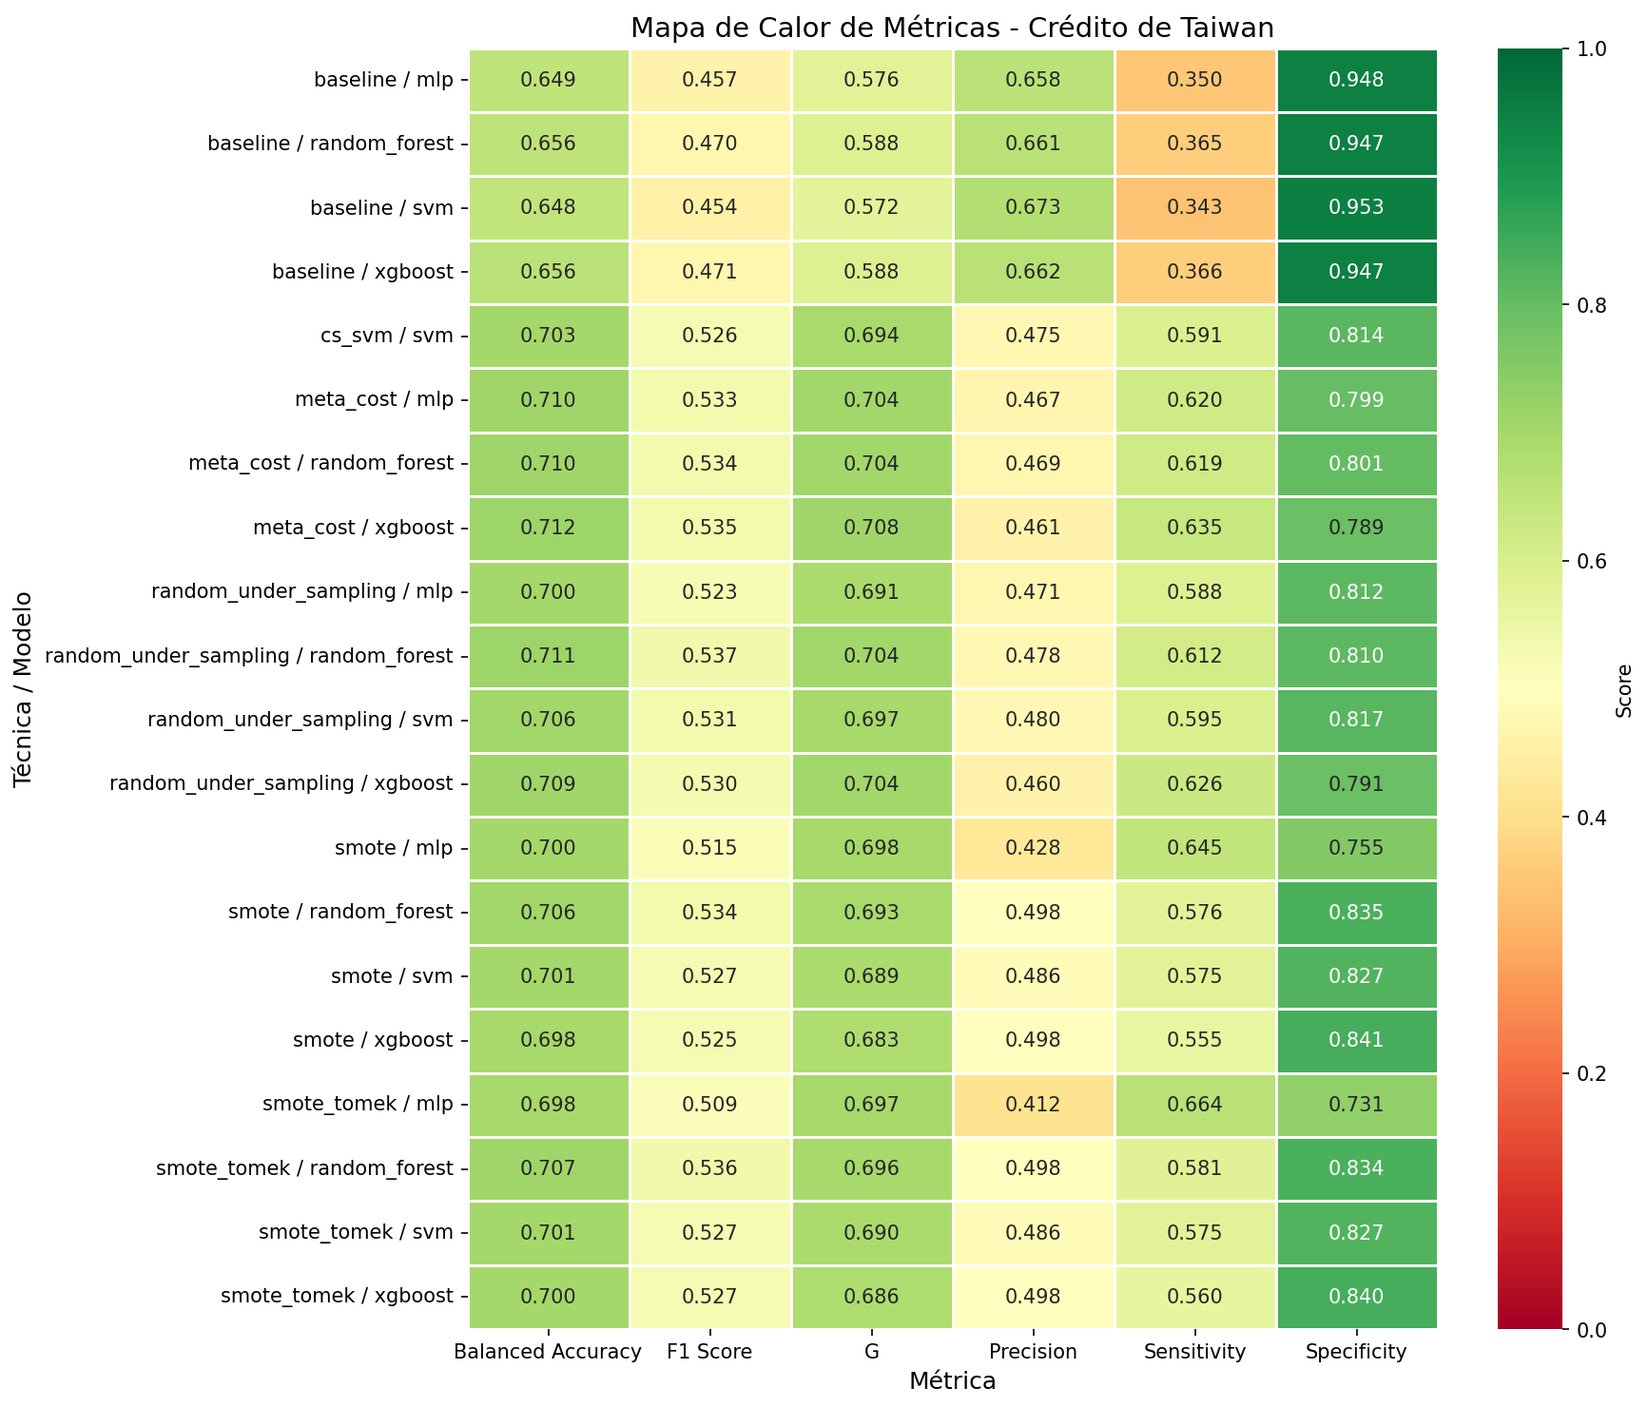
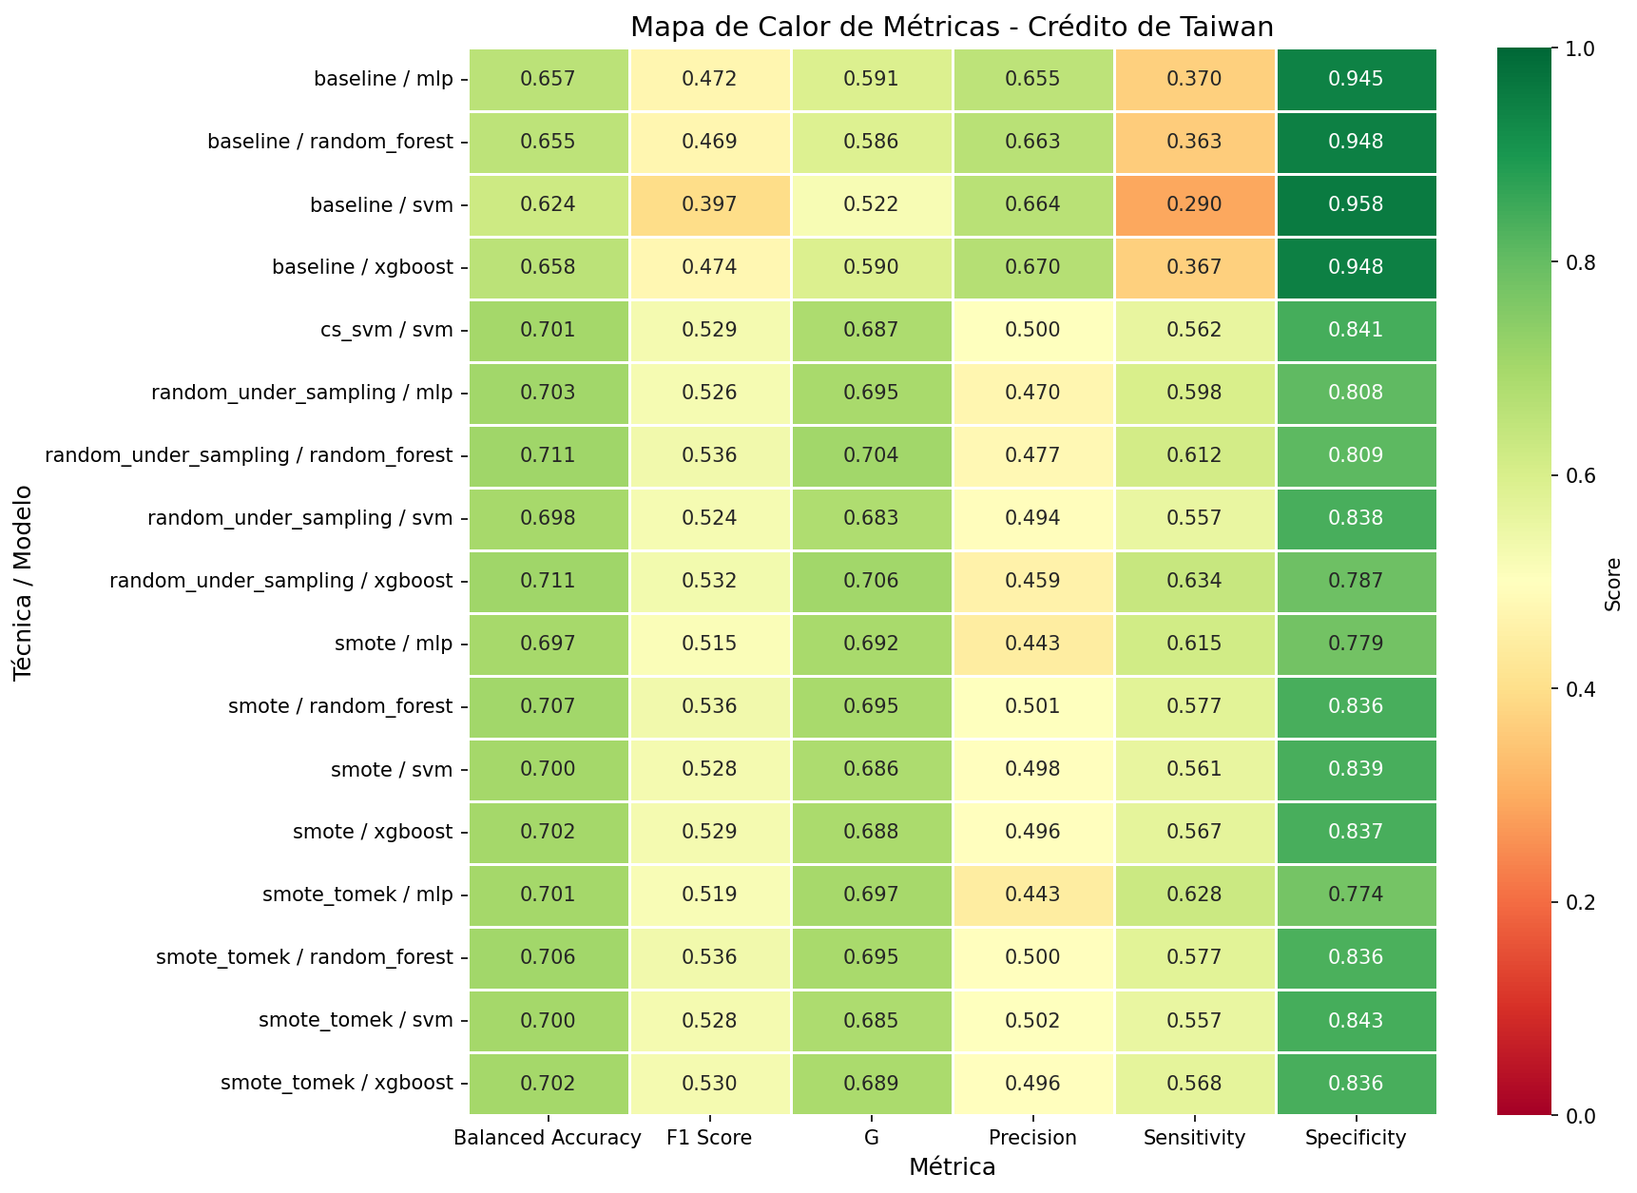
atualizar resultados

diff --git a/experimentos/reports/en_US/taiwan_credit/summary_table.tex b/experimentos/reports/en_US/taiwan_credit/summary_table.tex
@@ -5,26 +5,23 @@
 \toprule
 model_type & technique & balanced_accuracy_mean & balanced_accuracy_std & g_mean_mean & g_mean_std & f1_score_mean & f1_score_std & precision_mean & precision_std & sensitivity_mean & sensitivity_std & specificity_mean & specificity_std \\
 \midrule
-xgboost & meta_cost & 0.7123 & NaN & 0.7081 & NaN & 0.5345 & NaN & 0.4613 & NaN & 0.6354 & NaN & 0.7893 & NaN \\
-random_forest & random_under_sampling & 0.7111 & NaN & 0.7041 & NaN & 0.5368 & NaN & 0.4782 & NaN & 0.6118 & NaN & 0.8104 & NaN \\
-random_forest & meta_cost & 0.7099 & NaN & 0.7041 & NaN & 0.5337 & NaN & 0.4692 & NaN & 0.6188 & NaN & 0.8011 & NaN \\
-mlp & meta_cost & 0.7096 & NaN & 0.7039 & NaN & 0.5328 & NaN & 0.4669 & NaN & 0.6203 & NaN & 0.7988 & NaN \\
-xgboost & random_under_sampling & 0.7087 & NaN & 0.7039 & NaN & 0.5304 & NaN & 0.4600 & NaN & 0.6263 & NaN & 0.7911 & NaN \\
-random_forest & smote_tomek & 0.7072 & NaN & 0.6958 & NaN & 0.5362 & NaN & 0.4981 & NaN & 0.5806 & NaN & 0.8338 & NaN \\
-svm & random_under_sampling & 0.7060 & NaN & 0.6971 & NaN & 0.5314 & NaN & 0.4803 & NaN & 0.5947 & NaN & 0.8172 & NaN \\
-random_forest & smote & 0.7055 & NaN & 0.6935 & NaN & 0.5343 & NaN & 0.4985 & NaN & 0.5756 & NaN & 0.8355 & NaN \\
-svm & cs_svm & 0.7025 & NaN & 0.6936 & NaN & 0.5264 & NaN & 0.4748 & NaN & 0.5907 & NaN & 0.8144 & NaN \\
-svm & smote_tomek & 0.7012 & NaN & 0.6897 & NaN & 0.5268 & NaN & 0.4860 & NaN & 0.5751 & NaN & 0.8272 & NaN \\
-svm & smote & 0.7010 & NaN & 0.6895 & NaN & 0.5266 & NaN & 0.4860 & NaN & 0.5746 & NaN & 0.8274 & NaN \\
-mlp & smote & 0.7004 & NaN & 0.6982 & NaN & 0.5149 & NaN & 0.4283 & NaN & 0.6454 & NaN & 0.7553 & NaN \\
-mlp & random_under_sampling & 0.6999 & NaN & 0.6909 & NaN & 0.5227 & NaN & 0.4706 & NaN & 0.5876 & NaN & 0.8122 & NaN \\
-xgboost & smote_tomek & 0.6998 & NaN & 0.6856 & NaN & 0.5272 & NaN & 0.4984 & NaN & 0.5595 & NaN & 0.8401 & NaN \\
-xgboost & smote & 0.6979 & NaN & 0.6831 & NaN & 0.5247 & NaN & 0.4975 & NaN & 0.5550 & NaN & 0.8408 & NaN \\
-mlp & smote_tomek & 0.6977 & NaN & 0.6969 & NaN & 0.5089 & NaN & 0.4125 & NaN & 0.6640 & NaN & 0.7313 & NaN \\
-xgboost & baseline & 0.6563 & NaN & 0.5884 & NaN & 0.4710 & NaN & 0.6618 & NaN & 0.3656 & NaN & 0.9469 & NaN \\
-random_forest & baseline & 0.6557 & NaN & 0.5876 & NaN & 0.4699 & NaN & 0.6606 & NaN & 0.3646 & NaN & 0.9468 & NaN \\
-mlp & baseline & 0.6492 & NaN & 0.5762 & NaN & 0.4570 & NaN & 0.6582 & NaN & 0.3501 & NaN & 0.9484 & NaN \\
-svm & baseline & 0.6478 & NaN & 0.5717 & NaN & 0.4544 & NaN & 0.6729 & NaN & 0.3430 & NaN & 0.9526 & NaN \\
+xgboost & random_under_sampling & 0.7108 & 0.0058 & 0.7065 & 0.0069 & 0.5324 & 0.0076 & 0.4592 & 0.0122 & 0.6342 & 0.0181 & 0.7874 & 0.0139 \\
+random_forest & random_under_sampling & 0.7106 & 0.0058 & 0.7036 & 0.0070 & 0.5359 & 0.0079 & 0.4769 & 0.0135 & 0.6123 & 0.0175 & 0.8088 & 0.0136 \\
+random_forest & smote & 0.7067 & 0.0051 & 0.6947 & 0.0057 & 0.5360 & 0.0075 & 0.5006 & 0.0092 & 0.5770 & 0.0091 & 0.8364 & 0.0058 \\
+random_forest & smote_tomek & 0.7065 & 0.0052 & 0.6945 & 0.0058 & 0.5356 & 0.0077 & 0.4996 & 0.0096 & 0.5773 & 0.0092 & 0.8357 & 0.0060 \\
+mlp & random_under_sampling & 0.7033 & 0.0051 & 0.6952 & 0.0071 & 0.5263 & 0.0053 & 0.4702 & 0.0068 & 0.5981 & 0.0198 & 0.8084 & 0.0109 \\
+xgboost & smote_tomek & 0.7020 & 0.0051 & 0.6891 & 0.0058 & 0.5296 & 0.0077 & 0.4962 & 0.0111 & 0.5680 & 0.0103 & 0.8360 & 0.0079 \\
+xgboost & smote & 0.7016 & 0.0051 & 0.6885 & 0.0059 & 0.5291 & 0.0074 & 0.4963 & 0.0092 & 0.5667 & 0.0101 & 0.8365 & 0.0062 \\
+svm & cs_svm & 0.7011 & 0.0046 & 0.6870 & 0.0061 & 0.5291 & 0.0059 & 0.5003 & 0.0021 & 0.5615 & 0.0117 & 0.8407 & 0.0029 \\
+mlp & smote_tomek & 0.7010 & 0.0049 & 0.6970 & 0.0044 & 0.5186 & 0.0087 & 0.4425 & 0.0208 & 0.6278 & 0.0193 & 0.7743 & 0.0242 \\
+svm & smote & 0.7002 & 0.0056 & 0.6862 & 0.0080 & 0.5276 & 0.0072 & 0.4979 & 0.0070 & 0.5614 & 0.0168 & 0.8391 & 0.0078 \\
+svm & smote_tomek & 0.6998 & 0.0040 & 0.6849 & 0.0059 & 0.5277 & 0.0049 & 0.5018 & 0.0018 & 0.5565 & 0.0122 & 0.8430 & 0.0043 \\
+svm & random_under_sampling & 0.6976 & 0.0031 & 0.6833 & 0.0052 & 0.5237 & 0.0037 & 0.4943 & 0.0080 & 0.5573 & 0.0134 & 0.8379 & 0.0086 \\
+mlp & smote & 0.6974 & 0.0066 & 0.6923 & 0.0065 & 0.5147 & 0.0103 & 0.4431 & 0.0200 & 0.6155 & 0.0208 & 0.7793 & 0.0237 \\
+xgboost & baseline & 0.6579 & 0.0049 & 0.5902 & 0.0082 & 0.4743 & 0.0096 & 0.6695 & 0.0137 & 0.3673 & 0.0106 & 0.9484 & 0.0034 \\
+mlp & baseline & 0.6572 & 0.0092 & 0.5908 & 0.0175 & 0.4723 & 0.0179 & 0.6554 & 0.0161 & 0.3699 & 0.0237 & 0.9446 & 0.0066 \\
+random_forest & baseline & 0.6552 & 0.0053 & 0.5862 & 0.0089 & 0.4689 & 0.0105 & 0.6634 & 0.0124 & 0.3627 & 0.0113 & 0.9477 & 0.0030 \\
+svm & baseline & 0.6240 & 0.0365 & 0.5216 & 0.0778 & 0.3971 & 0.0851 & 0.6636 & 0.0359 & 0.2901 & 0.0870 & 0.9579 & 0.0156 \\
 \bottomrule
 \end{tabular}
 \end{table}

diff --git a/experimentos/reports/pt_BR/taiwan_credit/summary_table.tex b/experimentos/reports/pt_BR/taiwan_credit/summary_table.tex
@@ -5,26 +5,23 @@
 \toprule
 model_type & technique & balanced_accuracy_mean & balanced_accuracy_std & g_mean_mean & g_mean_std & f1_score_mean & f1_score_std & precision_mean & precision_std & sensitivity_mean & sensitivity_std & specificity_mean & specificity_std \\
 \midrule
-xgboost & meta_cost & 0.7123 & NaN & 0.7081 & NaN & 0.5345 & NaN & 0.4613 & NaN & 0.6354 & NaN & 0.7893 & NaN \\
-random_forest & random_under_sampling & 0.7111 & NaN & 0.7041 & NaN & 0.5368 & NaN & 0.4782 & NaN & 0.6118 & NaN & 0.8104 & NaN \\
-random_forest & meta_cost & 0.7099 & NaN & 0.7041 & NaN & 0.5337 & NaN & 0.4692 & NaN & 0.6188 & NaN & 0.8011 & NaN \\
-mlp & meta_cost & 0.7096 & NaN & 0.7039 & NaN & 0.5328 & NaN & 0.4669 & NaN & 0.6203 & NaN & 0.7988 & NaN \\
-xgboost & random_under_sampling & 0.7087 & NaN & 0.7039 & NaN & 0.5304 & NaN & 0.4600 & NaN & 0.6263 & NaN & 0.7911 & NaN \\
-random_forest & smote_tomek & 0.7072 & NaN & 0.6958 & NaN & 0.5362 & NaN & 0.4981 & NaN & 0.5806 & NaN & 0.8338 & NaN \\
-svm & random_under_sampling & 0.7060 & NaN & 0.6971 & NaN & 0.5314 & NaN & 0.4803 & NaN & 0.5947 & NaN & 0.8172 & NaN \\
-random_forest & smote & 0.7055 & NaN & 0.6935 & NaN & 0.5343 & NaN & 0.4985 & NaN & 0.5756 & NaN & 0.8355 & NaN \\
-svm & cs_svm & 0.7025 & NaN & 0.6936 & NaN & 0.5264 & NaN & 0.4748 & NaN & 0.5907 & NaN & 0.8144 & NaN \\
-svm & smote_tomek & 0.7012 & NaN & 0.6897 & NaN & 0.5268 & NaN & 0.4860 & NaN & 0.5751 & NaN & 0.8272 & NaN \\
-svm & smote & 0.7010 & NaN & 0.6895 & NaN & 0.5266 & NaN & 0.4860 & NaN & 0.5746 & NaN & 0.8274 & NaN \\
-mlp & smote & 0.7004 & NaN & 0.6982 & NaN & 0.5149 & NaN & 0.4283 & NaN & 0.6454 & NaN & 0.7553 & NaN \\
-mlp & random_under_sampling & 0.6999 & NaN & 0.6909 & NaN & 0.5227 & NaN & 0.4706 & NaN & 0.5876 & NaN & 0.8122 & NaN \\
-xgboost & smote_tomek & 0.6998 & NaN & 0.6856 & NaN & 0.5272 & NaN & 0.4984 & NaN & 0.5595 & NaN & 0.8401 & NaN \\
-xgboost & smote & 0.6979 & NaN & 0.6831 & NaN & 0.5247 & NaN & 0.4975 & NaN & 0.5550 & NaN & 0.8408 & NaN \\
-mlp & smote_tomek & 0.6977 & NaN & 0.6969 & NaN & 0.5089 & NaN & 0.4125 & NaN & 0.6640 & NaN & 0.7313 & NaN \\
-xgboost & baseline & 0.6563 & NaN & 0.5884 & NaN & 0.4710 & NaN & 0.6618 & NaN & 0.3656 & NaN & 0.9469 & NaN \\
-random_forest & baseline & 0.6557 & NaN & 0.5876 & NaN & 0.4699 & NaN & 0.6606 & NaN & 0.3646 & NaN & 0.9468 & NaN \\
-mlp & baseline & 0.6492 & NaN & 0.5762 & NaN & 0.4570 & NaN & 0.6582 & NaN & 0.3501 & NaN & 0.9484 & NaN \\
-svm & baseline & 0.6478 & NaN & 0.5717 & NaN & 0.4544 & NaN & 0.6729 & NaN & 0.3430 & NaN & 0.9526 & NaN \\
+xgboost & random_under_sampling & 0.7108 & 0.0058 & 0.7065 & 0.0069 & 0.5324 & 0.0076 & 0.4592 & 0.0122 & 0.6342 & 0.0181 & 0.7874 & 0.0139 \\
+random_forest & random_under_sampling & 0.7106 & 0.0058 & 0.7036 & 0.0070 & 0.5359 & 0.0079 & 0.4769 & 0.0135 & 0.6123 & 0.0175 & 0.8088 & 0.0136 \\
+random_forest & smote & 0.7067 & 0.0051 & 0.6947 & 0.0057 & 0.5360 & 0.0075 & 0.5006 & 0.0092 & 0.5770 & 0.0091 & 0.8364 & 0.0058 \\
+random_forest & smote_tomek & 0.7065 & 0.0052 & 0.6945 & 0.0058 & 0.5356 & 0.0077 & 0.4996 & 0.0096 & 0.5773 & 0.0092 & 0.8357 & 0.0060 \\
+mlp & random_under_sampling & 0.7033 & 0.0051 & 0.6952 & 0.0071 & 0.5263 & 0.0053 & 0.4702 & 0.0068 & 0.5981 & 0.0198 & 0.8084 & 0.0109 \\
+xgboost & smote_tomek & 0.7020 & 0.0051 & 0.6891 & 0.0058 & 0.5296 & 0.0077 & 0.4962 & 0.0111 & 0.5680 & 0.0103 & 0.8360 & 0.0079 \\
+xgboost & smote & 0.7016 & 0.0051 & 0.6885 & 0.0059 & 0.5291 & 0.0074 & 0.4963 & 0.0092 & 0.5667 & 0.0101 & 0.8365 & 0.0062 \\
+svm & cs_svm & 0.7011 & 0.0046 & 0.6870 & 0.0061 & 0.5291 & 0.0059 & 0.5003 & 0.0021 & 0.5615 & 0.0117 & 0.8407 & 0.0029 \\
+mlp & smote_tomek & 0.7010 & 0.0049 & 0.6970 & 0.0044 & 0.5186 & 0.0087 & 0.4425 & 0.0208 & 0.6278 & 0.0193 & 0.7743 & 0.0242 \\
+svm & smote & 0.7002 & 0.0056 & 0.6862 & 0.0080 & 0.5276 & 0.0072 & 0.4979 & 0.0070 & 0.5614 & 0.0168 & 0.8391 & 0.0078 \\
+svm & smote_tomek & 0.6998 & 0.0040 & 0.6849 & 0.0059 & 0.5277 & 0.0049 & 0.5018 & 0.0018 & 0.5565 & 0.0122 & 0.8430 & 0.0043 \\
+svm & random_under_sampling & 0.6976 & 0.0031 & 0.6833 & 0.0052 & 0.5237 & 0.0037 & 0.4943 & 0.0080 & 0.5573 & 0.0134 & 0.8379 & 0.0086 \\
+mlp & smote & 0.6974 & 0.0066 & 0.6923 & 0.0065 & 0.5147 & 0.0103 & 0.4431 & 0.0200 & 0.6155 & 0.0208 & 0.7793 & 0.0237 \\
+xgboost & baseline & 0.6579 & 0.0049 & 0.5902 & 0.0082 & 0.4743 & 0.0096 & 0.6695 & 0.0137 & 0.3673 & 0.0106 & 0.9484 & 0.0034 \\
+mlp & baseline & 0.6572 & 0.0092 & 0.5908 & 0.0175 & 0.4723 & 0.0179 & 0.6554 & 0.0161 & 0.3699 & 0.0237 & 0.9446 & 0.0066 \\
+random_forest & baseline & 0.6552 & 0.0053 & 0.5862 & 0.0089 & 0.4689 & 0.0105 & 0.6634 & 0.0124 & 0.3627 & 0.0113 & 0.9477 & 0.0030 \\
+svm & baseline & 0.6240 & 0.0365 & 0.5216 & 0.0778 & 0.3971 & 0.0851 & 0.6636 & 0.0359 & 0.2901 & 0.0870 & 0.9579 & 0.0156 \\
 \bottomrule
 \end{tabular}
 \end{table}

diff --git a/experimentos/reports/en_US/corporate_credit_rating/summary_table.tex b/experimentos/reports/en_US/corporate_credit_rating/summary_table.tex
@@ -1,0 +1,27 @@
+\begin{table}
+\caption{Results for corporate_credit_rating}
+\label{tab:summary_table.tex}
+\begin{tabular}{llrrrrrrrrrrrr}
+\toprule
+model_type & technique & balanced_accuracy_mean & balanced_accuracy_std & g_mean_mean & g_mean_std & f1_score_mean & f1_score_std & precision_mean & precision_std & sensitivity_mean & sensitivity_std & specificity_mean & specificity_std \\
+\midrule
+mlp & smote & 0.8274 & 0.1336 & 0.8050 & 0.1537 & 0.0935 & 0.0275 & 0.0505 & 0.0152 & 0.7000 & 0.2739 & 0.9549 & 0.0151 \\
+mlp & smote_tomek & 0.8274 & 0.1336 & 0.8050 & 0.1537 & 0.0935 & 0.0275 & 0.0505 & 0.0152 & 0.7000 & 0.2739 & 0.9549 & 0.0151 \\
+svm & random_under_sampling & 0.7680 & 0.1238 & 0.7536 & 0.1240 & 0.0209 & 0.0069 & 0.0106 & 0.0036 & 0.8000 & 0.2739 & 0.7361 & 0.0889 \\
+mlp & random_under_sampling & 0.7263 & 0.1258 & 0.7090 & 0.1284 & 0.0211 & 0.0115 & 0.0108 & 0.0059 & 0.7000 & 0.2739 & 0.7526 & 0.1256 \\
+random_forest & random_under_sampling & 0.6217 & 0.1323 & 0.4104 & 0.3747 & 0.0317 & 0.0327 & 0.0168 & 0.0176 & 0.3000 & 0.2739 & 0.9433 & 0.0261 \\
+svm & cs_svm & 0.6156 & 0.1318 & 0.4071 & 0.3718 & 0.0305 & 0.0371 & 0.0163 & 0.0204 & 0.3000 & 0.2739 & 0.9311 & 0.0467 \\
+xgboost & random_under_sampling & 0.6013 & 0.2175 & 0.4355 & 0.4041 & 0.0167 & 0.0166 & 0.0086 & 0.0086 & 0.4000 & 0.4183 & 0.8026 & 0.1276 \\
+svm & smote_tomek & 0.5839 & 0.1350 & 0.2775 & 0.3801 & 0.0413 & 0.0669 & 0.0237 & 0.0394 & 0.2000 & 0.2739 & 0.9677 & 0.0161 \\
+svm & smote & 0.5839 & 0.1350 & 0.2775 & 0.3801 & 0.0413 & 0.0669 & 0.0237 & 0.0394 & 0.2000 & 0.2739 & 0.9677 & 0.0161 \\
+mlp & baseline & 0.5449 & 0.1091 & 0.1400 & 0.3131 & 0.0267 & 0.0596 & 0.0154 & 0.0344 & 0.1000 & 0.2236 & 0.9898 & 0.0055 \\
+random_forest & baseline & 0.5000 & 0.0000 & 0.0000 & 0.0000 & 0.0000 & 0.0000 & 0.0000 & 0.0000 & 0.0000 & 0.0000 & 1.0000 & 0.0000 \\
+xgboost & baseline & 0.5000 & 0.0000 & 0.0000 & 0.0000 & 0.0000 & 0.0000 & 0.0000 & 0.0000 & 0.0000 & 0.0000 & 1.0000 & 0.0000 \\
+svm & baseline & 0.4990 & 0.0015 & 0.0000 & 0.0000 & 0.0000 & 0.0000 & 0.0000 & 0.0000 & 0.0000 & 0.0000 & 0.9980 & 0.0029 \\
+random_forest & smote & 0.4985 & 0.0014 & 0.0000 & 0.0000 & 0.0000 & 0.0000 & 0.0000 & 0.0000 & 0.0000 & 0.0000 & 0.9970 & 0.0027 \\
+random_forest & smote_tomek & 0.4985 & 0.0014 & 0.0000 & 0.0000 & 0.0000 & 0.0000 & 0.0000 & 0.0000 & 0.0000 & 0.0000 & 0.9970 & 0.0027 \\
+xgboost & smote & 0.4934 & 0.0065 & 0.0000 & 0.0000 & 0.0000 & 0.0000 & 0.0000 & 0.0000 & 0.0000 & 0.0000 & 0.9868 & 0.0129 \\
+xgboost & smote_tomek & 0.4934 & 0.0065 & 0.0000 & 0.0000 & 0.0000 & 0.0000 & 0.0000 & 0.0000 & 0.0000 & 0.0000 & 0.9868 & 0.0129 \\
+\bottomrule
+\end{tabular}
+\end{table}

diff --git a/experimentos/reports/pt_BR/corporate_credit_rating/summary_table.tex b/experimentos/reports/pt_BR/corporate_credit_rating/summary_table.tex
@@ -1,0 +1,27 @@
+\begin{table}
+\caption{Results for corporate_credit_rating}
+\label{tab:summary_table.tex}
+\begin{tabular}{llrrrrrrrrrrrr}
+\toprule
+model_type & technique & balanced_accuracy_mean & balanced_accuracy_std & g_mean_mean & g_mean_std & f1_score_mean & f1_score_std & precision_mean & precision_std & sensitivity_mean & sensitivity_std & specificity_mean & specificity_std \\
+\midrule
+mlp & smote & 0.8274 & 0.1336 & 0.8050 & 0.1537 & 0.0935 & 0.0275 & 0.0505 & 0.0152 & 0.7000 & 0.2739 & 0.9549 & 0.0151 \\
+mlp & smote_tomek & 0.8274 & 0.1336 & 0.8050 & 0.1537 & 0.0935 & 0.0275 & 0.0505 & 0.0152 & 0.7000 & 0.2739 & 0.9549 & 0.0151 \\
+svm & random_under_sampling & 0.7680 & 0.1238 & 0.7536 & 0.1240 & 0.0209 & 0.0069 & 0.0106 & 0.0036 & 0.8000 & 0.2739 & 0.7361 & 0.0889 \\
+mlp & random_under_sampling & 0.7263 & 0.1258 & 0.7090 & 0.1284 & 0.0211 & 0.0115 & 0.0108 & 0.0059 & 0.7000 & 0.2739 & 0.7526 & 0.1256 \\
+random_forest & random_under_sampling & 0.6217 & 0.1323 & 0.4104 & 0.3747 & 0.0317 & 0.0327 & 0.0168 & 0.0176 & 0.3000 & 0.2739 & 0.9433 & 0.0261 \\
+svm & cs_svm & 0.6156 & 0.1318 & 0.4071 & 0.3718 & 0.0305 & 0.0371 & 0.0163 & 0.0204 & 0.3000 & 0.2739 & 0.9311 & 0.0467 \\
+xgboost & random_under_sampling & 0.6013 & 0.2175 & 0.4355 & 0.4041 & 0.0167 & 0.0166 & 0.0086 & 0.0086 & 0.4000 & 0.4183 & 0.8026 & 0.1276 \\
+svm & smote & 0.5839 & 0.1350 & 0.2775 & 0.3801 & 0.0413 & 0.0669 & 0.0237 & 0.0394 & 0.2000 & 0.2739 & 0.9677 & 0.0161 \\
+svm & smote_tomek & 0.5839 & 0.1350 & 0.2775 & 0.3801 & 0.0413 & 0.0669 & 0.0237 & 0.0394 & 0.2000 & 0.2739 & 0.9677 & 0.0161 \\
+mlp & baseline & 0.5449 & 0.1091 & 0.1400 & 0.3131 & 0.0267 & 0.0596 & 0.0154 & 0.0344 & 0.1000 & 0.2236 & 0.9898 & 0.0055 \\
+xgboost & baseline & 0.5000 & 0.0000 & 0.0000 & 0.0000 & 0.0000 & 0.0000 & 0.0000 & 0.0000 & 0.0000 & 0.0000 & 1.0000 & 0.0000 \\
+random_forest & baseline & 0.5000 & 0.0000 & 0.0000 & 0.0000 & 0.0000 & 0.0000 & 0.0000 & 0.0000 & 0.0000 & 0.0000 & 1.0000 & 0.0000 \\
+svm & baseline & 0.4990 & 0.0015 & 0.0000 & 0.0000 & 0.0000 & 0.0000 & 0.0000 & 0.0000 & 0.0000 & 0.0000 & 0.9980 & 0.0029 \\
+random_forest & smote & 0.4985 & 0.0014 & 0.0000 & 0.0000 & 0.0000 & 0.0000 & 0.0000 & 0.0000 & 0.0000 & 0.0000 & 0.9970 & 0.0027 \\
+random_forest & smote_tomek & 0.4985 & 0.0014 & 0.0000 & 0.0000 & 0.0000 & 0.0000 & 0.0000 & 0.0000 & 0.0000 & 0.0000 & 0.9970 & 0.0027 \\
+xgboost & smote_tomek & 0.4934 & 0.0065 & 0.0000 & 0.0000 & 0.0000 & 0.0000 & 0.0000 & 0.0000 & 0.0000 & 0.0000 & 0.9868 & 0.0129 \\
+xgboost & smote & 0.4934 & 0.0065 & 0.0000 & 0.0000 & 0.0000 & 0.0000 & 0.0000 & 0.0000 & 0.0000 & 0.0000 & 0.9868 & 0.0129 \\
+\bottomrule
+\end{tabular}
+\end{table}

diff --git a/experimentos/reports/en_US/lending_club/summary_table.tex b/experimentos/reports/en_US/lending_club/summary_table.tex
@@ -1,0 +1,27 @@
+\begin{table}
+\caption{Results for lending_club}
+\label{tab:summary_table.tex}
+\begin{tabular}{llrrrrrrrrrrrr}
+\toprule
+model_type & technique & balanced_accuracy_mean & balanced_accuracy_std & g_mean_mean & g_mean_std & f1_score_mean & f1_score_std & precision_mean & precision_std & sensitivity_mean & sensitivity_std & specificity_mean & specificity_std \\
+\midrule
+xgboost & random_under_sampling & 0.6590 & 0.0005 & 0.6589 & 0.0005 & 0.4352 & 0.0006 & 0.3237 & 0.0007 & 0.6639 & 0.0021 & 0.6541 & 0.0019 \\
+mlp & random_under_sampling & 0.6588 & 0.0008 & 0.6582 & 0.0010 & 0.4344 & 0.0019 & 0.3203 & 0.0074 & 0.6758 & 0.0237 & 0.6418 & 0.0244 \\
+random_forest & random_under_sampling & 0.6506 & 0.0006 & 0.6506 & 0.0006 & 0.4266 & 0.0006 & 0.3181 & 0.0006 & 0.6472 & 0.0020 & 0.6539 & 0.0016 \\
+svm & cs_svm & 0.6466 & 0.0005 & 0.6464 & 0.0006 & 0.4228 & 0.0004 & 0.3179 & 0.0013 & 0.6312 & 0.0056 & 0.6621 & 0.0049 \\
+svm & random_under_sampling & 0.6465 & 0.0004 & 0.6461 & 0.0006 & 0.4229 & 0.0002 & 0.3194 & 0.0020 & 0.6254 & 0.0081 & 0.6676 & 0.0074 \\
+svm & smote_tomek & 0.6462 & 0.0005 & 0.6461 & 0.0005 & 0.4222 & 0.0005 & 0.3165 & 0.0010 & 0.6341 & 0.0032 & 0.6584 & 0.0032 \\
+svm & smote & 0.6461 & 0.0003 & 0.6460 & 0.0003 & 0.4221 & 0.0004 & 0.3167 & 0.0011 & 0.6329 & 0.0038 & 0.6594 & 0.0037 \\
+random_forest & smote & 0.6237 & 0.0009 & 0.6118 & 0.0054 & 0.3980 & 0.0012 & 0.3291 & 0.0124 & 0.5060 & 0.0295 & 0.7414 & 0.0298 \\
+random_forest & smote_tomek & 0.6235 & 0.0009 & 0.6130 & 0.0049 & 0.3978 & 0.0011 & 0.3257 & 0.0121 & 0.5131 & 0.0277 & 0.7338 & 0.0286 \\
+mlp & smote & 0.6231 & 0.0082 & 0.6029 & 0.0149 & 0.3967 & 0.0112 & 0.3451 & 0.0056 & 0.4680 & 0.0349 & 0.7783 & 0.0200 \\
+xgboost & smote & 0.6157 & 0.0015 & 0.5944 & 0.0032 & 0.3870 & 0.0021 & 0.3366 & 0.0012 & 0.4553 & 0.0080 & 0.7761 & 0.0051 \\
+mlp & smote_tomek & 0.6041 & 0.0039 & 0.5618 & 0.0118 & 0.3674 & 0.0071 & 0.3540 & 0.0075 & 0.3829 & 0.0242 & 0.8254 & 0.0168 \\
+xgboost & smote_tomek & 0.5618 & 0.0006 & 0.4041 & 0.0022 & 0.2516 & 0.0019 & 0.4719 & 0.0028 & 0.1715 & 0.0020 & 0.9521 & 0.0009 \\
+xgboost & baseline & 0.5422 & 0.0008 & 0.3239 & 0.0021 & 0.1791 & 0.0022 & 0.5387 & 0.0049 & 0.1074 & 0.0014 & 0.9771 & 0.0002 \\
+mlp & baseline & 0.5348 & 0.0016 & 0.2911 & 0.0067 & 0.1496 & 0.0060 & 0.5639 & 0.0037 & 0.0862 & 0.0040 & 0.9834 & 0.0009 \\
+svm & baseline & 0.5306 & 0.0041 & 0.2780 & 0.0188 & 0.1371 & 0.0164 & 0.5277 & 0.0067 & 0.0790 & 0.0110 & 0.9823 & 0.0029 \\
+random_forest & baseline & 0.5212 & 0.0004 & 0.2270 & 0.0022 & 0.0954 & 0.0017 & 0.5748 & 0.0051 & 0.0520 & 0.0010 & 0.9904 & 0.0003 \\
+\bottomrule
+\end{tabular}
+\end{table}

diff --git a/experimentos/reports/pt_BR/lending_club/summary_table.tex b/experimentos/reports/pt_BR/lending_club/summary_table.tex
@@ -1,0 +1,27 @@
+\begin{table}
+\caption{Results for lending_club}
+\label{tab:summary_table.tex}
+\begin{tabular}{llrrrrrrrrrrrr}
+\toprule
+model_type & technique & balanced_accuracy_mean & balanced_accuracy_std & g_mean_mean & g_mean_std & f1_score_mean & f1_score_std & precision_mean & precision_std & sensitivity_mean & sensitivity_std & specificity_mean & specificity_std \\
+\midrule
+xgboost & random_under_sampling & 0.6590 & 0.0005 & 0.6589 & 0.0005 & 0.4352 & 0.0006 & 0.3237 & 0.0007 & 0.6639 & 0.0021 & 0.6541 & 0.0019 \\
+mlp & random_under_sampling & 0.6588 & 0.0008 & 0.6582 & 0.0010 & 0.4344 & 0.0019 & 0.3203 & 0.0074 & 0.6758 & 0.0237 & 0.6418 & 0.0244 \\
+random_forest & random_under_sampling & 0.6506 & 0.0006 & 0.6506 & 0.0006 & 0.4266 & 0.0006 & 0.3181 & 0.0006 & 0.6472 & 0.0020 & 0.6539 & 0.0016 \\
+svm & cs_svm & 0.6466 & 0.0005 & 0.6464 & 0.0006 & 0.4228 & 0.0004 & 0.3179 & 0.0013 & 0.6312 & 0.0056 & 0.6621 & 0.0049 \\
+svm & random_under_sampling & 0.6465 & 0.0004 & 0.6461 & 0.0006 & 0.4229 & 0.0002 & 0.3194 & 0.0020 & 0.6254 & 0.0081 & 0.6676 & 0.0074 \\
+svm & smote_tomek & 0.6462 & 0.0005 & 0.6461 & 0.0005 & 0.4222 & 0.0005 & 0.3165 & 0.0010 & 0.6341 & 0.0032 & 0.6584 & 0.0032 \\
+svm & smote & 0.6461 & 0.0003 & 0.6460 & 0.0003 & 0.4221 & 0.0004 & 0.3167 & 0.0011 & 0.6329 & 0.0038 & 0.6594 & 0.0037 \\
+random_forest & smote & 0.6237 & 0.0009 & 0.6118 & 0.0054 & 0.3980 & 0.0012 & 0.3291 & 0.0124 & 0.5060 & 0.0295 & 0.7414 & 0.0298 \\
+random_forest & smote_tomek & 0.6235 & 0.0009 & 0.6130 & 0.0049 & 0.3978 & 0.0011 & 0.3257 & 0.0121 & 0.5131 & 0.0277 & 0.7338 & 0.0286 \\
+mlp & smote & 0.6231 & 0.0082 & 0.6029 & 0.0149 & 0.3967 & 0.0112 & 0.3451 & 0.0056 & 0.4680 & 0.0349 & 0.7783 & 0.0200 \\
+xgboost & smote & 0.6157 & 0.0015 & 0.5944 & 0.0032 & 0.3870 & 0.0021 & 0.3366 & 0.0012 & 0.4553 & 0.0080 & 0.7761 & 0.0051 \\
+mlp & smote_tomek & 0.6041 & 0.0039 & 0.5618 & 0.0118 & 0.3674 & 0.0071 & 0.3540 & 0.0075 & 0.3829 & 0.0242 & 0.8254 & 0.0168 \\
+xgboost & smote_tomek & 0.5618 & 0.0006 & 0.4041 & 0.0022 & 0.2516 & 0.0019 & 0.4719 & 0.0028 & 0.1715 & 0.0020 & 0.9521 & 0.0009 \\
+xgboost & baseline & 0.5422 & 0.0008 & 0.3239 & 0.0021 & 0.1791 & 0.0022 & 0.5387 & 0.0049 & 0.1074 & 0.0014 & 0.9771 & 0.0002 \\
+mlp & baseline & 0.5348 & 0.0016 & 0.2911 & 0.0067 & 0.1496 & 0.0060 & 0.5639 & 0.0037 & 0.0862 & 0.0040 & 0.9834 & 0.0009 \\
+svm & baseline & 0.5306 & 0.0041 & 0.2780 & 0.0188 & 0.1371 & 0.0164 & 0.5277 & 0.0067 & 0.0790 & 0.0110 & 0.9823 & 0.0029 \\
+random_forest & baseline & 0.5212 & 0.0004 & 0.2270 & 0.0022 & 0.0954 & 0.0017 & 0.5748 & 0.0051 & 0.0520 & 0.0010 & 0.9904 & 0.0003 \\
+\bottomrule
+\end{tabular}
+\end{table}
